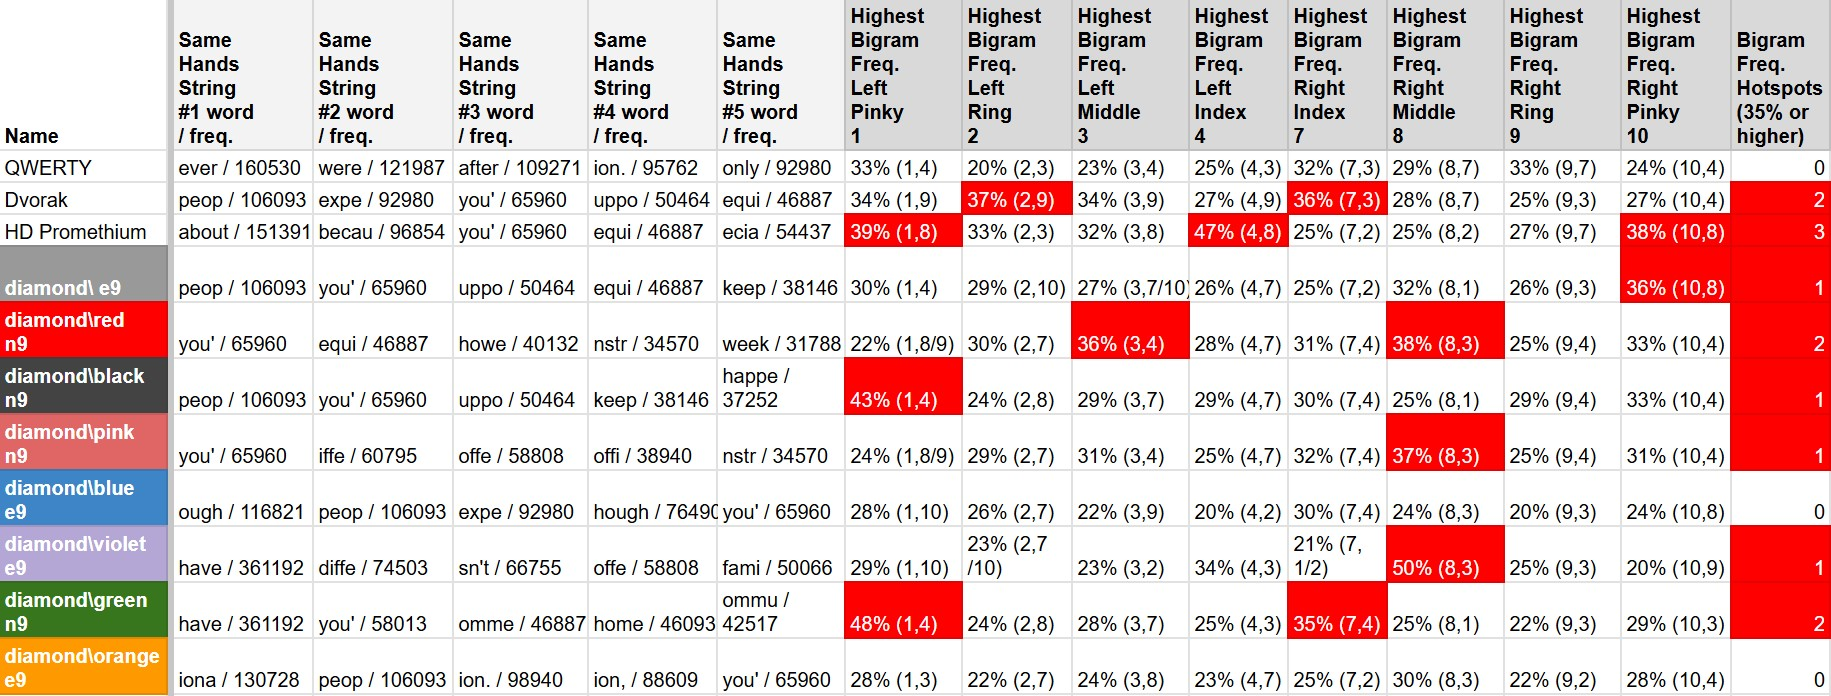
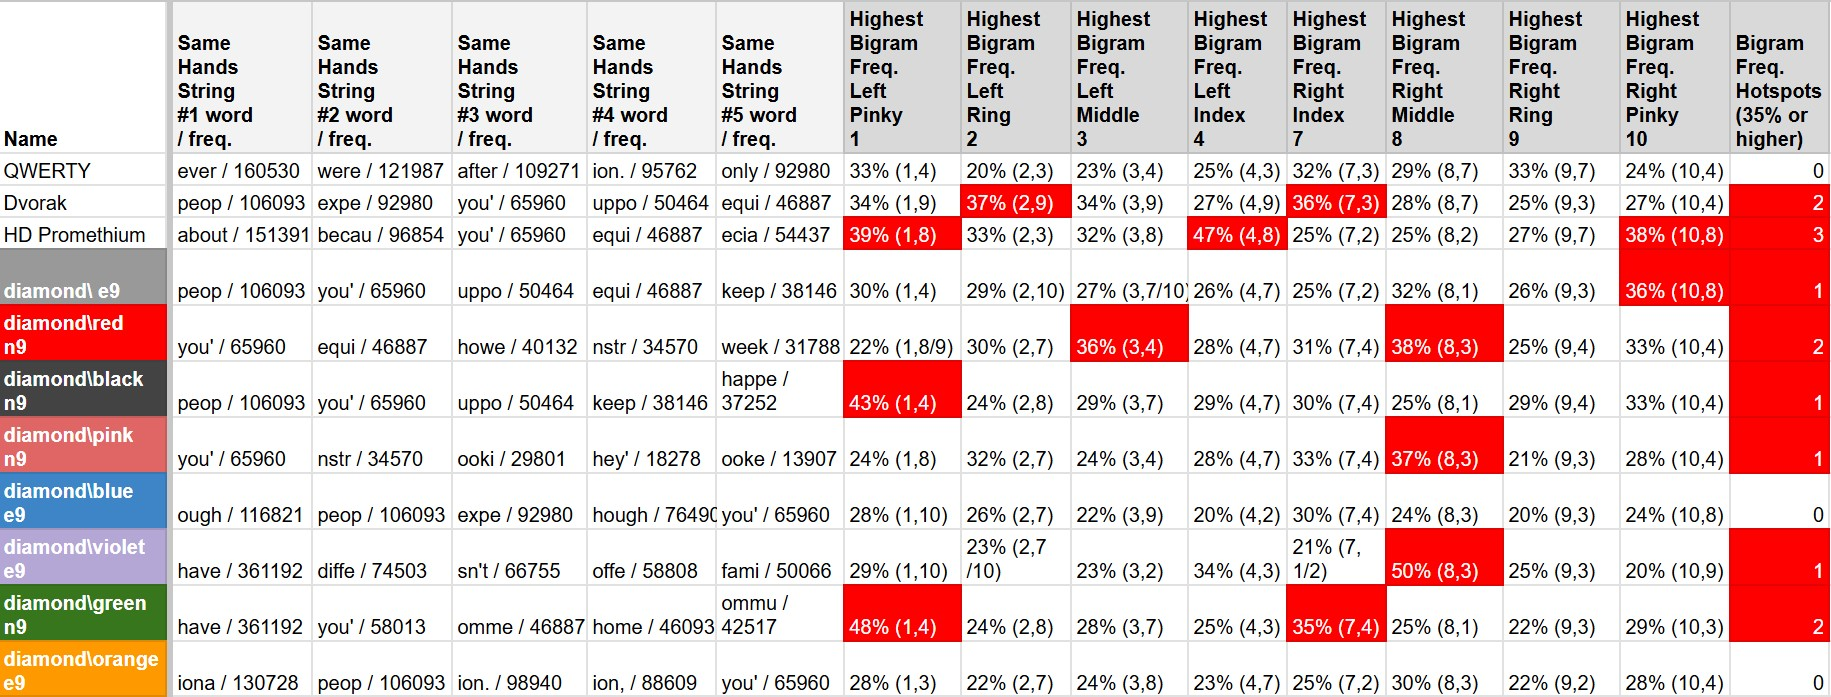
updated overhauled diamond\pink n9 layout, updated all related stats and images

Changed region(s): [[0.0, 0.0, 1.0, 1.0], [0.2179, 0.0, 0.249, 0.0302]]

diff --git a/README.md b/README.md
@@ -507,11 +507,14 @@ I used a Keychron K15 Max Alice Layout Keyboard to learn the e9 and n9 versions 
 diamond\\black n9 (second latest version before swapping the ; and Z keys), unlocked all keys on January 30th 2026:
 ![screenshot from keybr for learning the above layout](https://raw.githubusercontent.com/r134x7/diamond_backslash/refs/heads/main/images/keybr_diamond_backslash_black_n9_1.jpg)
 
-diamond\\pink n9 (second latest version before swapping the X and K keys), unlocked all keys on January 31st 2026:
+diamond\\pink n9 (third latest version before swapping the X and K keys), unlocked all keys on January 31st 2026:
 ![screenshot from keybr for learning the above layout](https://raw.githubusercontent.com/r134x7/diamond_backslash/refs/heads/main/images/keybr_diamond_backslash_pink_n9_1.jpg)
 
-diamond\\pink n9 (latest version), unlocked all keys on February 2nd 2026:
+diamond\\pink n9 (second latest version before overhaul), unlocked all keys on February 2nd 2026:
 ![screenshot from keybr for learning the above layout](https://raw.githubusercontent.com/r134x7/diamond_backslash/refs/heads/main/images/keybr_diamond_backslash_pink_n9_2.jpg)
+
+diamond\\pink n9 (latest version), finished with J key left to unlock on February 3rd 2026:
+![screenshot from keybr for learning the above layout](https://raw.githubusercontent.com/r134x7/diamond_backslash/refs/heads/main/images/keybr_diamond_backslash_pink_n9_3.jpg)
 
 diamond\\red n9 (latest version), finished with J left to unlock on January 31st 2026:
 ![screenshot from keybr for learning the above layout](https://raw.githubusercontent.com/r134x7/diamond_backslash/refs/heads/main/images/keybr_diamond_backslash_red_n9_1.jpg)
@@ -540,9 +543,11 @@ started on day 4 (for all layouts)
 took 1 day to reach E,N,I,A,R,L,T,O,S,U,D,Y,C,G,H,P,M,K,B,W,F,Z,V,X,Q,J.
 restarted
 took 1 day to reach E,N,I,A,R,L,T,O,S,U,D,Y,C,G,H,P,M,K,B,W,F,Z,V,X,Q,J.
+restarted
+took 1 day to reach E,N,I,A,R,L,T,O,S,U,D,Y,C,G,H,P,M,K,B,W,F,Z,V,X,Q,J
 
-currently day 2 (for this layout) - All keys unlocked! (twice)
-finished on day 7 (for all layouts)
+currently day 3 (for this layout) - All keys unlocked! (twice)
+finished on day 8 (for all layouts)
 
 3:
 diamond\red n9
